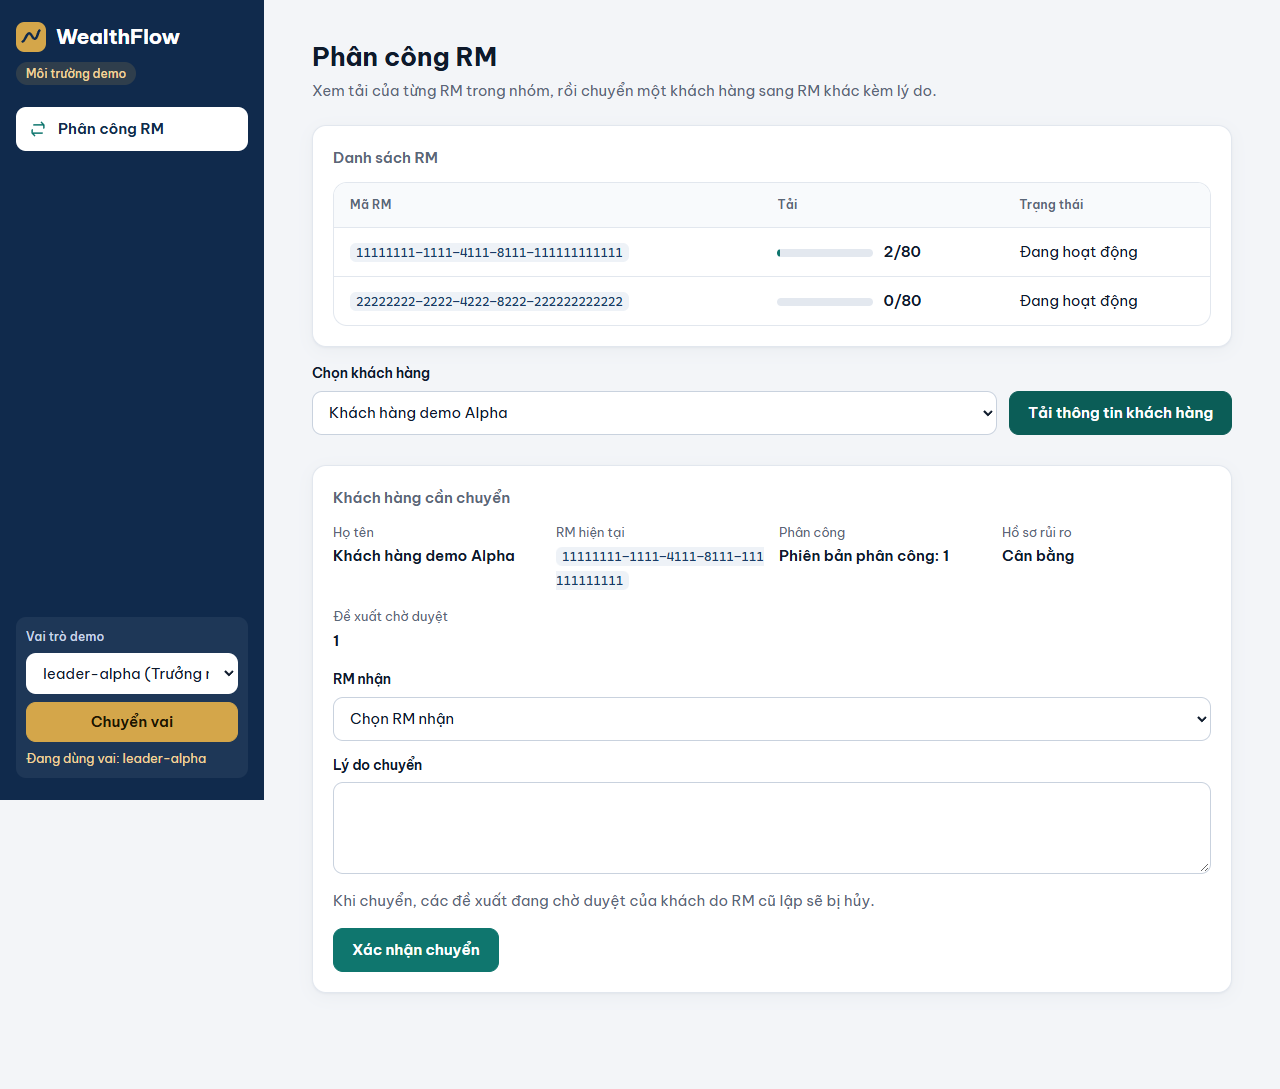
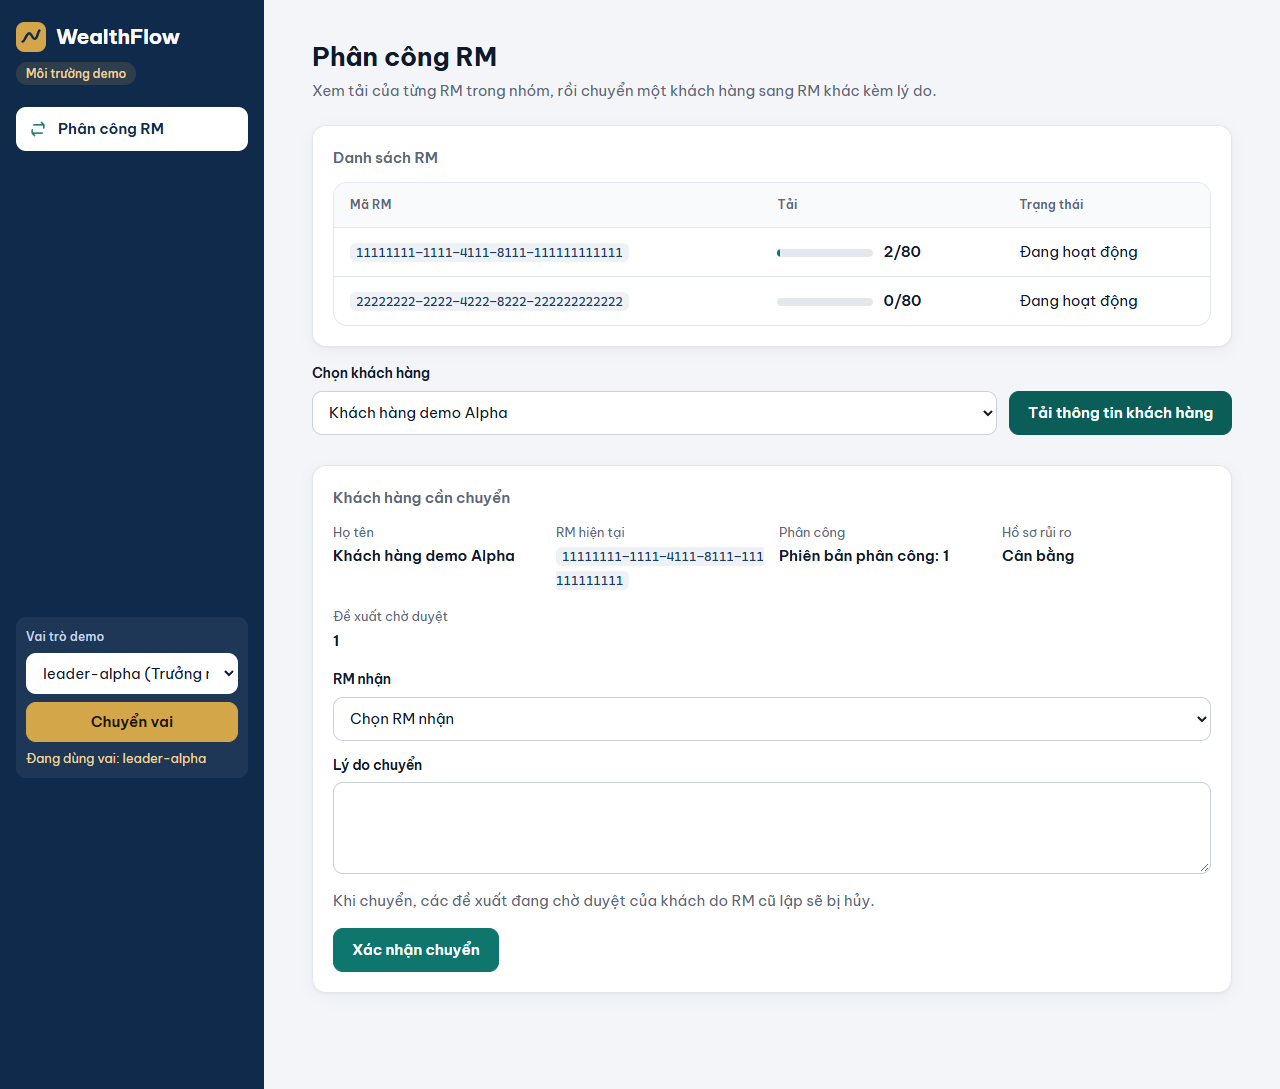
style(web): wrap mobile nav instead of clipping; extend sidebar colour on long pages

Changed region(s): [[0.0, 0.7181, 0.2188, 1.0]]

diff --git a/apps/web/src/styles.css b/apps/web/src/styles.css
@@ -54,7 +54,7 @@ main:focus { outline: none; }
 .brand-mark { width: 30px; height: 30px; color: var(--gold); flex: none; }
 .masthead h1 { margin: 0; font-size: 1.3rem; font-weight: 700; line-height: 1.2; }
 .demo-flag { font-size: 0.75rem; font-weight: 500; padding: 2px 10px; border-radius: 999px; background: rgba(212, 166, 74, 0.16); color: #f0d39a; }
-.masthead nav ul { list-style: none; margin: 0; padding: 0; display: flex; gap: 4px; overflow-x: auto; scrollbar-width: none; }
+.masthead nav ul { list-style: none; margin: 0; padding: 0; display: flex; flex-wrap: wrap; gap: 4px; }
 .masthead nav li { flex: none; }
 .masthead nav a {
   display: flex; align-items: center; gap: 10px; padding: 9px 12px; color: var(--brand-ink); text-decoration: none;
@@ -216,7 +216,7 @@ tbody th a:hover { color: var(--action); text-decoration: underline; }
 
 /* Wide screens: the masthead becomes a fixed left rail */
 @media (min-width: 1024px) {
-  .app { display: grid; grid-template-columns: 264px minmax(0, 1fr); min-height: 100vh; }
+  .app { display: grid; grid-template-columns: 264px minmax(0, 1fr); min-height: 100vh; background: linear-gradient(to right, var(--brand) 264px, var(--bg) 264px); }
   .masthead { position: sticky; top: 0; height: 100vh; padding: 22px 16px; gap: 22px; }
   .masthead-row { gap: 10px; }
   .masthead nav { flex: 1; }
